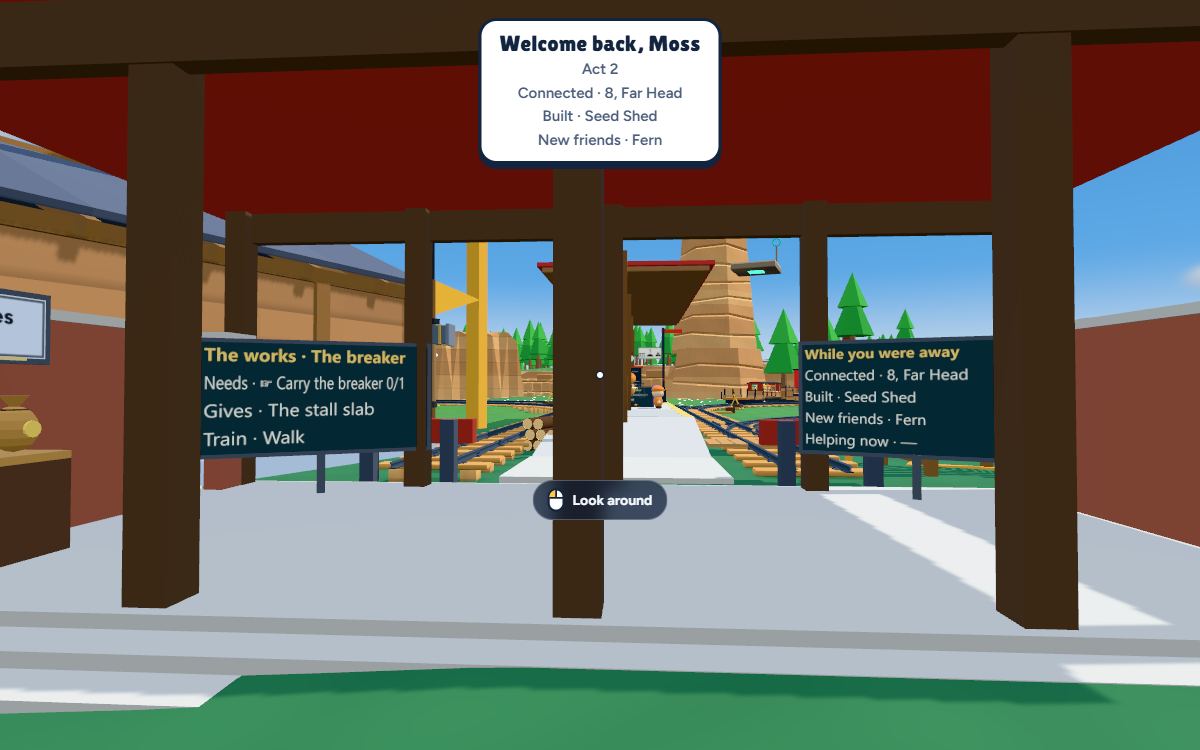
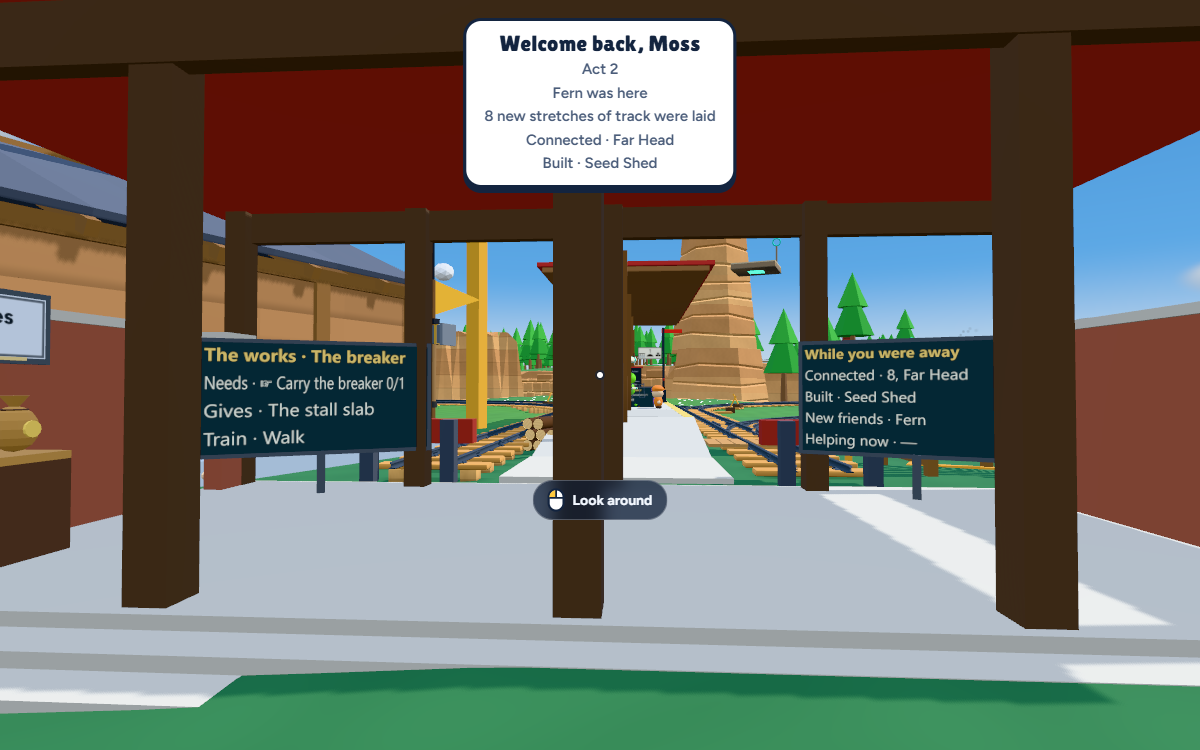
Freeze the welcome board at arrival and restore the card greetings

diff --git a/src/features/welcome-back.ts b/src/features/welcome-back.ts
@@ -16,8 +16,14 @@ import { getRoomId } from '../netplay/net.ts';
 import { worldStatus } from '../world/sync.ts';
 import { productionRailway } from '../proto/flags.ts';
 import { railwayWorldRead } from '../entities/railway/state.ts';
-import { railwayKnown, railwaySnapshot, railwayDiff } from '../player/welcome-railway.ts';
-import { showCard, addWelcomeItem, rememberVisit, roomMemory, welcomeLines } from '../player/arrival.ts';
+import {
+  railwayKnown,
+  railwaySnapshot,
+  railwayDiff,
+  stretchesLaid,
+  stretchesSince,
+} from '../player/welcome-railway.ts';
+import { showCard, addWelcomeItem, rememberVisit, roomMemory, welcomeLines, nameList } from '../player/arrival.ts';
 
 const WAIT_MS = 4000; // the longest the card waits for the room's state before it says just hello
 const SHOW_MS = 3500; // on screen, plus LINE_MS for each change it lists
@@ -26,36 +32,43 @@ const SAVE_MS = 5000; // how often this visit is remembered while you play
 
 // ---------------------------------------------------------------- what a returning player hears about
 const railway = () => railwayKnown(railwayWorldRead());
-const names = (pids: readonly string[]) =>
-  pids
-    .map((pid) => rules.roster.nameOf(rules.roster.indexOf(pid)))
-    .filter(Boolean)
-    .slice(0, 6);
+const otherPlayers = () => rules.roster.roster.pids.filter((pid) => pid !== identity.pid);
+const playerNames = (pids: readonly string[]) =>
+  pids.map((pid) => rules.roster.nameOf(rules.roster.indexOf(pid)) || 'Someone');
+function newFriends(previous: unknown) {
+  return previous && typeof previous === 'object'
+    ? playerNames(otherPlayers().filter((pid) => !Object.hasOwn(previous, pid)))
+    : [];
+}
+function friendGreeting(previous: unknown) {
+  const names = newFriends(previous);
+  return names.length ? `${nameList(names)} ${names.length === 1 ? 'was' : 'were'} here` : null;
+}
 addWelcomeItem({
   key: 'friends',
   save: () =>
     railwayMirror && !railwayMirror.synced()
       ? undefined
       : Object.fromEntries(rules.roster.roster.pids.map((pid) => [pid, 0])),
-  since: () => null,
+  since: friendGreeting,
 });
-function summary() {
-  const w = railway();
-  if (!w) return null;
+
+type Railway = NonNullable<ReturnType<typeof railway>>;
+function arrivalSummary(w: Railway) {
   const snapshot = railwaySnapshot(w);
-  const diff = railwayDiff(snapshot, then?.items.laid);
-  const roster = rules.roster.roster.pids;
-  const friends = then?.items.friends;
-  const newcomers =
-    friends && typeof friends === 'object'
-      ? roster.filter((pid) => pid !== identity.pid && !Object.hasOwn(friends, pid))
-      : [];
+  const rich = then?.items.railway;
+  const laid = then?.items.laid;
+  // A cached client can advance its numeric count between visits by newer clients.
+  const baseline =
+    rich && typeof rich === 'object' && typeof laid === 'number' ? { ...rich, lines: laid } : (rich ?? laid);
+  const diff = railwayDiff(snapshot, baseline);
+  const newcomers = newFriends(then?.items.friends);
   const away = !!(diff.sections || diff.places.length || diff.built.length || newcomers.length);
   const current = roomWorks(w);
   const stop = workSite.findIndex((site) => site === current.site);
   const helpers =
     stop > 0 || current.ops.includes('rail.legStock')
-      ? names(worksThanks(w, Math.max(0, stop)).filter((pid) => rules.roster.indexOf(pid) >= 0))
+      ? playerNames(worksThanks(w, Math.max(0, stop)).filter((pid) => rules.roster.indexOf(pid) >= 0))
       : [];
   const places = away ? diff.places : snapshot.places;
   const sections = away ? diff.sections : snapshot.lines + snapshot.legs.reduce((n, v) => n + v, 0);
@@ -63,22 +76,50 @@ function summary() {
   // [placeholder: While you were away] [placeholder: Room log] [placeholder: Connected]
   // [placeholder: Built] [placeholder: New friends] [placeholder: Helping now]
   const row = (label: string, values: string[]) => label + ' \u00b7 ' + (values.join(', ') || '\u2014');
-  const rows = [
+  publishWelcomeRows([
     away ? 'While you were away' : 'Room log',
     row('Connected', [String(sections), ...places.slice(-1)]),
     row('Built', built.slice(-2)),
-    row('New friends', names(away ? newcomers : roster)),
-    row('Helping now', helpers),
-  ];
-  publishWelcomeRows(rows);
-  return { snapshot, lines: away ? rows.slice(1).filter((r) => !r.endsWith('\u2014')) : [] };
+    row('New friends', (away ? newcomers : playerNames(otherPlayers())).slice(0, 6)),
+    row('Helping now', helpers.slice(0, 6)),
+  ]);
+  const lines = [];
+  if (diff.places.length) lines.push(row('Connected', diff.places.slice(-1)));
+  if (diff.built.length) lines.push(row('Built', diff.built.slice(-2)));
+  return { lines, diff };
 }
+let arrival: ReturnType<typeof arrivalSummary> | undefined;
+const onArrival = (w: Railway) => (arrival ??= arrivalSummary(w));
+
 addWelcomeItem({
   key: 'laid',
-  save: () => summary()?.snapshot,
-  absent: null,
-  since: () => summary()?.lines ?? null,
+  save: () => {
+    const w = railway();
+    if (!w) return undefined;
+    onArrival(w);
+    return stretchesLaid(w);
+  },
+  since: (previous) => {
+    const w = railway();
+    if (!w) return null;
+    const n = then?.items.railway ? onArrival(w).diff.sections : stretchesSince(previous, stretchesLaid(w));
+    if (!n) return null;
+    return n === 1 ? 'A new stretch of track was laid' : `${n} new stretches of track were laid`;
+  },
 });
+addWelcomeItem({
+  key: 'railway',
+  absent: null,
+  save: () => {
+    const w = railway();
+    return w ? railwaySnapshot(w) : undefined;
+  },
+  since: () => {
+    const w = railway();
+    return w ? onArrival(w).lines : null;
+  },
+});
+
 // ---------------------------------------------------------------- the card
 const room = getRoomId();
 const then = roomMemory(room); // before this visit remembers anything
@@ -129,7 +170,8 @@ if (!shown) {
       const ready = known();
       if (ready || now - enteredAt > WAIT_MS) {
         shown = true;
-        show(ready ? welcomeLines(then) : []);
+        const friends = ready ? null : friendGreeting(then?.items.friends);
+        show(ready ? welcomeLines(then) : friends ? [friends] : []);
         despawn(waiting);
       }
     },

diff --git a/test/welcome-back-review.test.ts b/test/welcome-back-review.test.ts
@@ -29,7 +29,7 @@ const stubs: Record<string, string> = {
   'flags.ts': 'export const productionRailway=false',
   'state.ts': 'export const railwayWorldRead=f.read',
   'arrival.ts':
-    'export const addWelcomeItem=f.add, roomMemory=()=>f.memory, showCard=()=>false, rememberVisit=()=>{}, welcomeLines=()=>[]',
+    'export const addWelcomeItem=f.add, roomMemory=()=>f.memory, showCard=()=>false, rememberVisit=()=>{}, welcomeLines=()=>[], nameList=names=>names.join(" and ")',
 };
 const hook = registerHooks({
   resolve(specifier, context, next) {
@@ -63,6 +63,12 @@ test('progress made during this visit is never labelled while you were away', ()
   items.get('laid')!.save();
   assert.equal(rows.at(-1)?.[0], 'Room log');
 });
+test('a solo room log leaves the player out of the names row', () => {
+  pids.splice(1);
+  world = buildSeedWorld('awake').w;
+  items.get('laid')!.save();
+  assert.equal(rows.at(-1)?.[3], 'New friends \u00b7 \u2014');
+});
 test('a cached client can still compare its numeric laid item after a new client saves', () => {
   world = buildSeedWorld('awake').w;
   const saved = items.get('laid')!.save();
@@ -80,5 +86,5 @@ test('a friend-only return preserves the card greeting without reporting a track
 test('a legacy track baseline still yields the original track sentence on the card', () => {
   world = buildSeedWorld('q1-done').w;
   const lines = items.get('laid')!.since(0);
-  assert.ok(Array.isArray(lines) && lines.includes('4 new stretches of track were laid'));
+  assert.equal(lines, '4 new stretches of track were laid');
 });

diff --git a/test/welcome-railway.test.ts b/test/welcome-railway.test.ts
@@ -2,7 +2,7 @@
 // visit and the stretches it names at the next, on two accepted-op seed worlds.
 import test from 'node:test';
 import assert from 'node:assert/strict';
-import { Leg, Plot } from '../src/sim/railway-components.ts';
+import { Leg, Plot, Route } from '../src/sim/railway-components.ts';
 import type { ReadWorld } from '../src/sim/railway-rows.ts';
 import { railwayDiff, railwaySnapshot, stretchesLaid, stretchesSince } from '../src/player/welcome-railway.ts';
 import { buildSeedWorld } from './helpers/rail.ts';
@@ -46,4 +46,10 @@ test('a bought plot is remembered by slot and shows its chosen building once', (
   const now = snapshot(w);
   assert.deepEqual(railwayDiff(now, early).built, ['Seed Shed']);
   assert.deepEqual(railwayDiff(now, now).built, []);
+});
+
+test('arrival names the Original Island halt as the catalog does', () => {
+  const { w } = buildSeedWorld('awake');
+  w.mut(Route, w.single(Route))!.arrived = 1;
+  assert.equal(snapshot(w).places.at(-1), 'Original Island');
 });

diff --git a/src/player/welcome-railway.ts b/src/player/welcome-railway.ts
@@ -55,7 +55,7 @@ export function railwaySnapshot(w: ReadWorld) {
     const halt = WORLD_LINES.find((line) => line.id === spec.row)?.halts[spec.destRowHalt];
     if (halt) places.push(halt.name);
   });
-  if (routeRow(w).arrived >= 0) places.push('The Original Island');
+  if (routeRow(w).arrived >= 0) places.push('Original Island');
   const plots: Record<string, string> = {};
   w.each([Plot], (_id, p) => {
     if (p.at >= 0) plots[p.slot] = choices[p.kind] || `Plot ${(p.slot % 16) + 1}`;

diff --git a/docs/plans/welcome-board.md b/docs/plans/welcome-board.md
@@ -12,4 +12,4 @@ The existing return and unranked Thanks decisions cover the card and names. The 
 
 The house-built seed shows Far Head and the Seed Shed. Both boards fit from the hall pad on desktop and in the phone overview. The overview lettering is small. Turning toward the south bay from the same pad makes all five rows readable at 390 px. The outer upright overlaps the board's right edge.
 
-For the return, Fern entered and left, then Moss reloaded with an earlier room snapshot. The Act 2 card and the south sign both showed eight stretches, Far Head, Seed Shed and Fern. The four stills are in the welcome-board directory beside this plan.
+For the return, Fern entered and left, then Moss reloaded with an earlier room snapshot. The board freezes its five rows at arrival while later saves remember live progress. The card keeps its Act line first, followed by the friend and stretch greetings and short Connected and Built lines. The numeric laid item and roster map remain readable by older clients; the railway item holds route and plot details. The four stills are in the welcome-board directory beside this plan.

diff --git a/docs/game-design/first-run.md b/docs/game-design/first-run.md
@@ -178,4 +178,4 @@ spaced, a thin rule, a slow fade with a slight drift, no panel, no input taken. 
   goes up. One procedural sting (`actSting`), silent within 10 s of a fanfare (Far Head's show plays one).
 - Acts 3 to 5 are not in the code: an act has a card only when its opening content is built.
 
-Home's south hall board compares this browser's previous room visit with the current railway, town plots and roster. The returning card carries the same changes after any Act line. On a first visit the board shows the current room log.
+Home's south hall board compares this browser's previous room visit with the current railway, town plots and roster. The board keeps the changes found at arrival for this visit. After any Act line, the returning card names friends who were here and says how many new stretches were laid. It adds a Connected or Built line when the room reached a place or bought a building. On a first visit the board shows the current room log.
